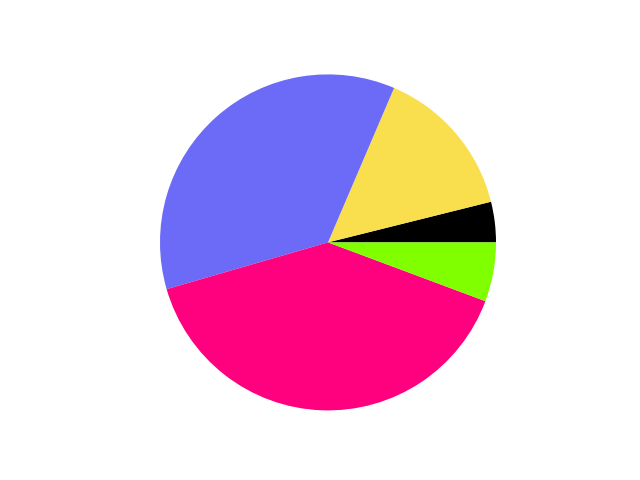
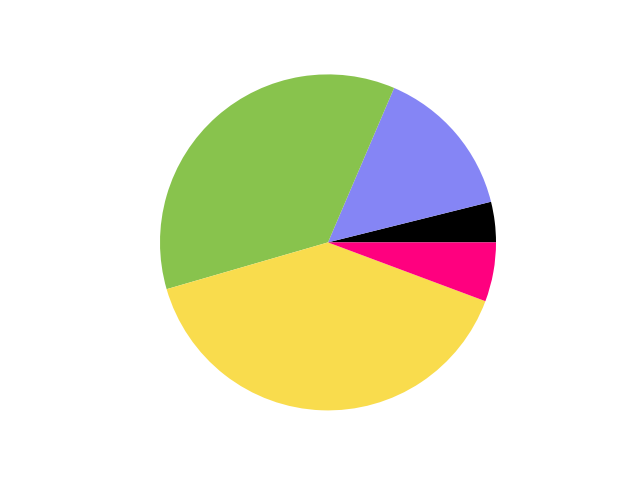
Changed the order of the colours in the map plots of the ECDF differences and piecharts. Added the script and the plot of a blank global map.

Changed region(s): [[0.25, 0.1562, 0.7812, 0.875]]

diff --git a/Scripts/Processed/25_Plot_Blank_Map.py b/Scripts/Processed/25_Plot_Blank_Map.py
@@ -1,0 +1,72 @@
+import os
+import metview as mv
+
+#################################################################################################
+# COD
+#E DESCRIPTION
+# 25_Plot_Blank_Map.py plots a blank global map.
+# Code runtime: ~ negligible.
+
+# DESCRIPTION OF INPUT PARAMETERS
+# Git_Repo (string): path of local GitHub repository.
+# DirOUT (string): relative path for the directory containing the map plots for the observed and modelled rainfall totals.
+
+# INPUT PARAMETERS
+Git_Repo = "/ec/vol/ecpoint_dev/mofp/Papers_2_Write/Verif_ClimateNWP_4Points"
+DirOUT = "Data/Plot/25_Blank_Map"
+#################################################################################################
+
+print("Creating a blank global map...")
+
+lsm = mv.retrieve(
+    class_ = "od",
+    date = "2024-09-28",
+    expver = 1,
+    levtype = "sfc",
+    param = "172.128",
+    step = 0,
+    stream = "oper",
+    time = "00:00:00",
+    type = "fc")
+
+coastlines = mv.mcoast(
+    map_coastline_colour = "charcoal",
+    map_coastline_thickness = 5,
+    map_coastline_resolution = "low",
+    map_coastline_land_shade = "on",
+    map_coastline_land_shade_colour = "rgb(0.9372,0.9098,0.8589)",
+    map_coastline_sea_shade = "on",
+    map_coastline_sea_shade_colour = "rgb(0.8415,0.9389,0.9389)",
+    map_boundaries = "on",
+    map_boundaries_colour = "charcoal",
+    map_boundaries_thickness = 5,
+    map_administrative_boundaries = "of",
+    map_grid_latitude_increment = 30,
+    map_grid_longitude_increment = 60,
+    map_label_right = "off",
+    map_label_top = "off",
+    map_label_colour = "charcoal",
+    map_grid_thickness = 5,
+    map_grid_colour = "charcoal",
+    map_label_height = 3
+    )
+
+contouring = mv.mcont(
+    legend = "on",
+    contour = "off",
+    contour_level_selection_type = "level_list",
+    contour_level_list = [0, 1],
+    contour_label = "off",
+    contour_shade = "on",
+    contour_shade_colour_method = "list",
+    contour_shade_method = "area_fill",
+    contour_shade_colour_list = ["white"]
+    )
+
+# Saving the plot of the modelled climatology
+DirOUT_temp = Git_Repo + "/" + DirOUT
+if not os.path.exists(DirOUT_temp):
+      os.makedirs(DirOUT_temp)
+png = mv.png_output(output_width = 5000, output_name = DirOUT_temp + "/Blank_Map")
+mv.setoutput(png)
+mv.plot(lsm, coastlines, contouring)

diff --git a/Scripts/Processed/23_Plot_ECDF_Diff_Piechart.py b/Scripts/Processed/23_Plot_ECDF_Diff_Piechart.py
@@ -70,17 +70,17 @@ for SystemNWP in SystemNWP_list:
             d = np.where( (ECDF_diff_mean_domain >= 50) & (ECDF_diff_mean_domain < 100) )[0].shape[0]
             e = np.where(ECDF_diff_mean_domain >= 100)[0].shape[0]
             sizes = [a, b, c, d, e]
-            colors = ["#000000", "#f9df4d", "#6b6bf7", "#ff007f", "#7fff00"]
+            colors = ["#000000", "#8585f5", "#88c34d", "#f9dc4d", "#ff007f"]
             ax.pie(sizes, colors=colors, startangle=0)
             plt.axis("equal")
 
             # Print on screen the percentage for each area category
             print(" - Percentage for each area category in " + Domain_Name)
-            print("     a: " + str(a/ECDF_diff_mean.shape[0] * 100))
-            print("     b: " + str(b/ECDF_diff_mean.shape[0] * 100))
-            print("     c: " + str(c/ECDF_diff_mean.shape[0] * 100))
-            print("     d: " + str(d/ECDF_diff_mean.shape[0] * 100))
-            print("     e: " + str(e/ECDF_diff_mean.shape[0] * 100))
+            print("     a: " + str(a/ECDF_diff_mean_domain.shape[0] * 100))
+            print("     b: " + str(b/ECDF_diff_mean_domain.shape[0] * 100))
+            print("     c: " + str(c/ECDF_diff_mean_domain.shape[0] * 100))
+            print("     d: " + str(d/ECDF_diff_mean_domain.shape[0] * 100))
+            print("     e: " + str(e/ECDF_diff_mean_domain.shape[0] * 100))
 
             # Saving the piecharts
             MainDirOUT = Git_Repo + "/" + DirOUT + "/MinDays_Perc_" + str(MinDays_Perc*100) + "/MaxPerc_" + str(MaxPerc) + "/" + f'{Acc:02d}' + "h_" + str(YearS) + "_" + str(YearF) + "/" + SystemNWP

diff --git a/Scripts/Processed/22_Plot_ECDF_Diff_Map.py b/Scripts/Processed/22_Plot_ECDF_Diff_Map.py
@@ -85,11 +85,11 @@ for SystemNWP in SystemNWP_list:
             symbol_max_table = [10, 30, 50, 100, 10000],
             symbol_marker_table = [15, 15, 15, 15, 15],
             symbol_colour_table = [
-                  "rgb(0,0,0)", # 0 - 0.1
-                  "rgb(0.976,0.8749,0.3025)", # 0.1 - 0.3
-                  "rgb(0.4206,0.4206,0.9676)", # 0.3 - 0.5
-                  "rgb(1,0,0.498)", # 0.5 - 1
-                  "rgb(0.498,1,0)"], # 1 - 100
+                  "rgb(0,0,0)", # 0 - 10
+                  "rgb(0.5199,0.5199,0.9624)", # 10 - 30
+                  "rgb(0.5333,0.7658,0.3009)",  # 30 - 50 
+                  "rgb(0.9774,0.8647,0.3011)", # 50 - 100
+                  "rgb(1,0,0.498)"], # 100 - 10000
             symbol_height_table = [0.2, 0.2, 0.2, 0.2, 0.2]
             )
       

diff --git a/Scripts/Processed/20_Plot_ECDF.py b/Scripts/Processed/20_Plot_ECDF.py
@@ -26,7 +26,7 @@ YearF = 2019
 Acc = 24
 MinDays_Perc = 0.75
 SystemNWP_list = ["Reanalysis/ERA5_EDA", "Reanalysis/ERA5", "Reforecasts/ECMWF_46r1", "Reanalysis/ERA5_ecPoint"]
-SystemNWP_Colour_list = ["#ffc001", "#1cb8a6", "#ff007f", "#2500ff"]
+SystemNWP_Colour_list = ["#ffc001", "#1cb8a6", "#ff007f", "ra rain only                          rain gauges                                                                                                                                           with ar"]
 Git_Repo = "/ec/vol/ecpoint_dev/mofp/Papers_2_Write/Verif_ClimateNWP_4Points"
 DirIN_OBS = "Data/Compute/10_AlignOBS_CleanSTVL/Coeff_Grid2Point_20"
 DirIN_NWP = "Data/Compute/19_Merged_tp_NWP"
